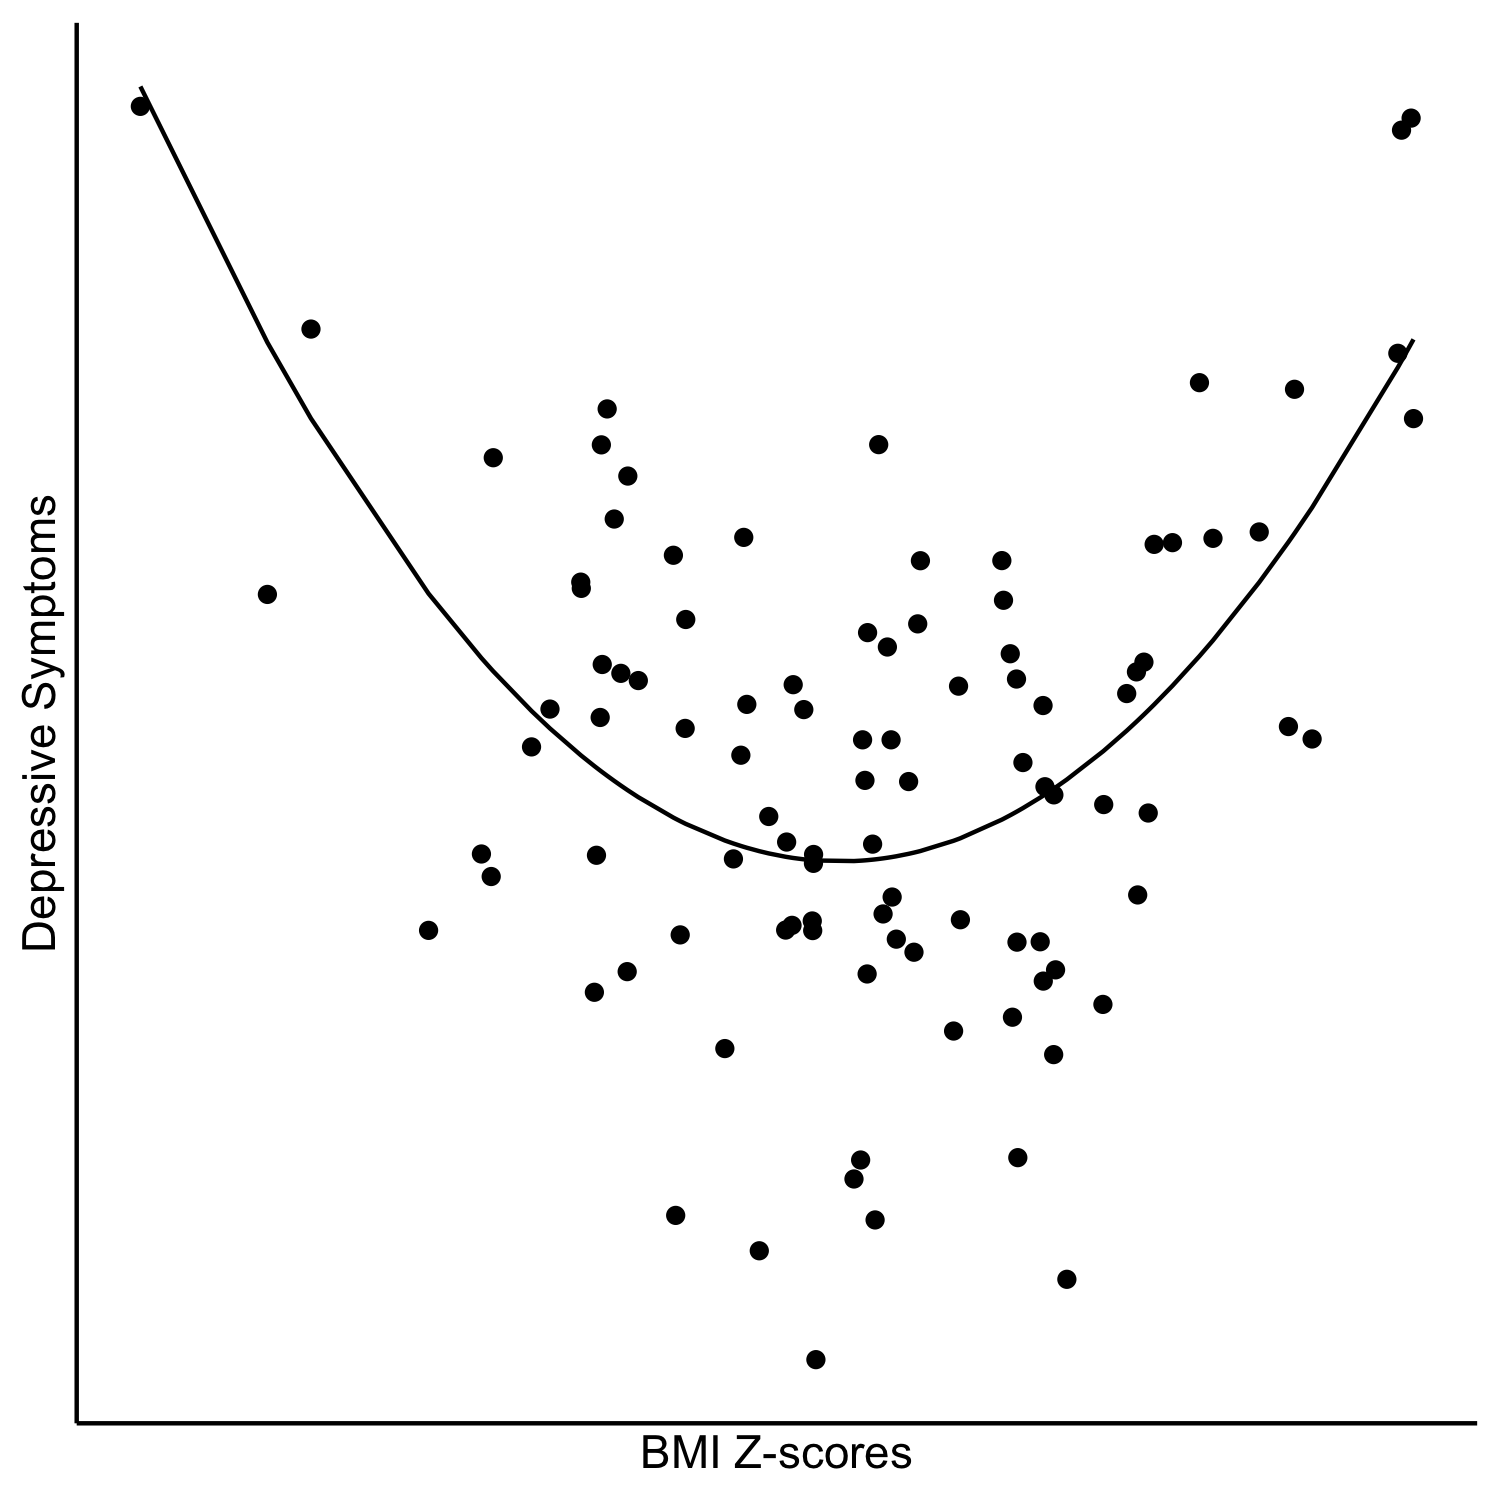
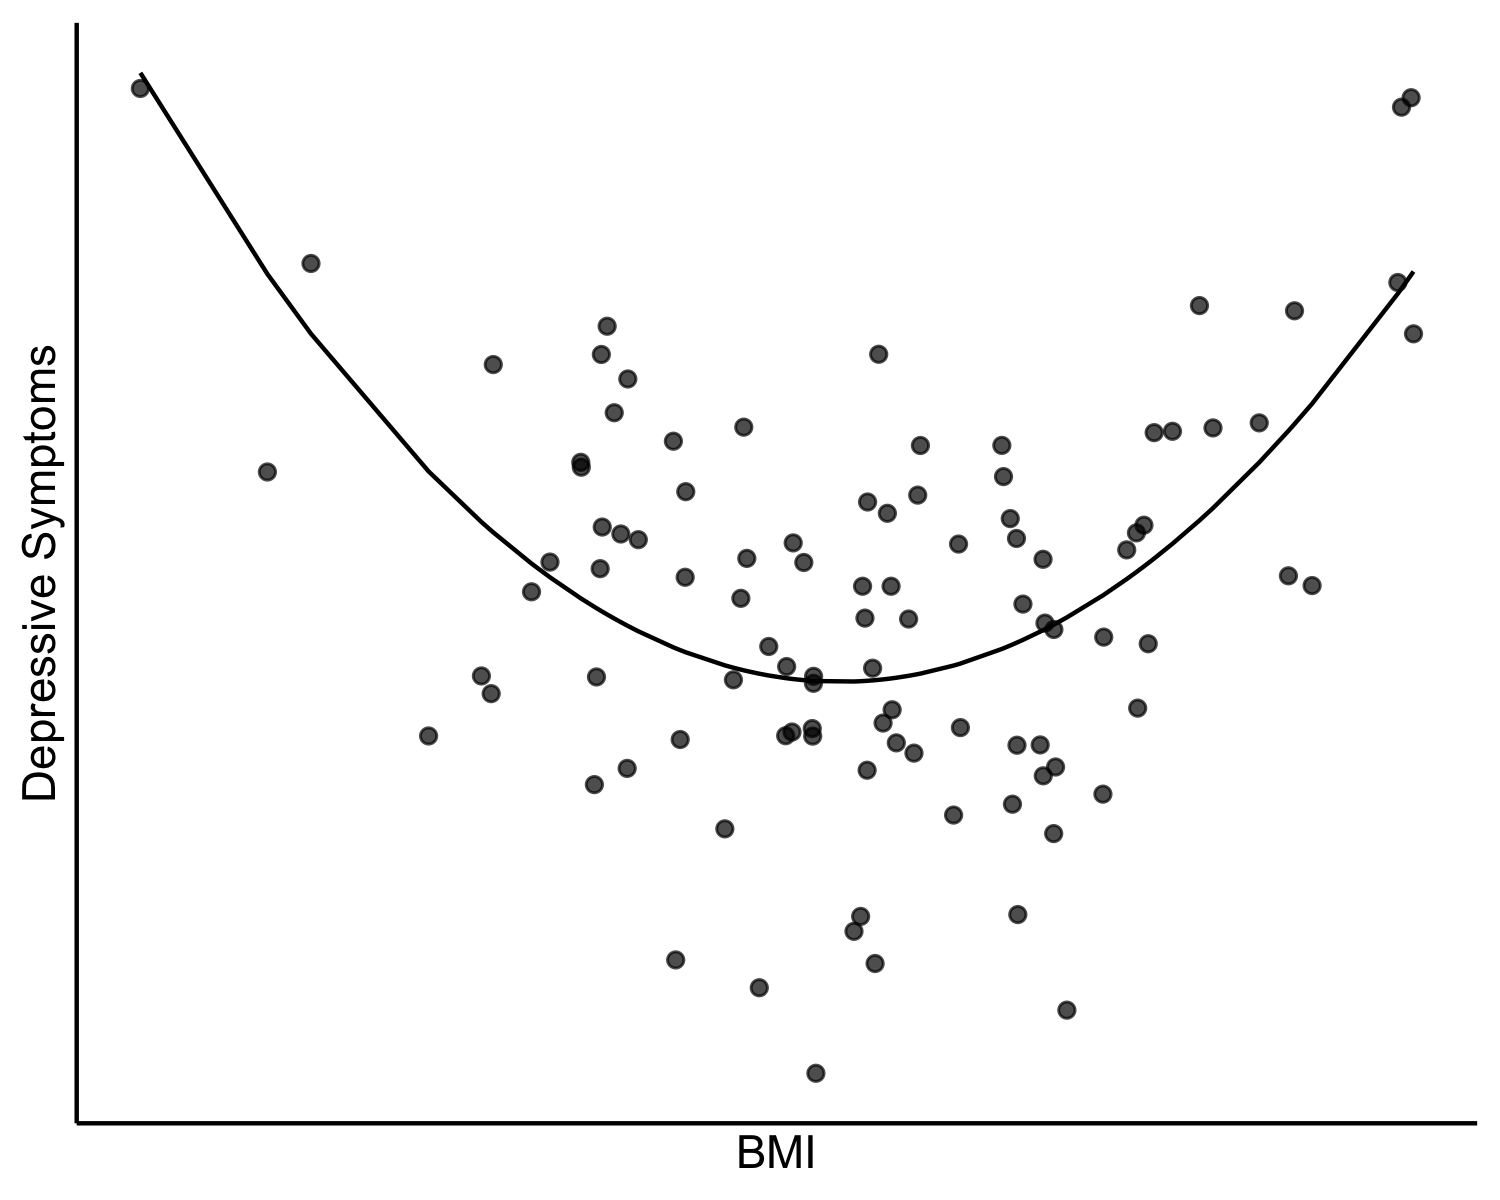
Fleshed out the bias variance example

diff --git a/demystifying_machine_learning/demystifying_machine_learning.md b/demystifying_machine_learning/demystifying_machine_learning.md
@@ -128,7 +128,7 @@ It refers to the fact that although of course you can only work with the data yo
 In other words, when you think about how good a model is, you don't just mean that you want it to fit the data in front of you --- you want it to work on new data as well.
 
 That means that the best model is not necessarily the one that fits your training data the best.
-Instead, the best model is one that captures as much of the systemtic variability in your data as possible without getting so closely tuned to your training data that it starts to model noise.
+Instead, the best model is one that captures as much of the systematic variability in your data as possible without getting so closely tuned to your training data that it starts to model noise.
 
 You can measure how well a model fits in a number of ways, but one very common method is the **Mean Squared Error (MSE)**; it captures how close your predictions are to the observed data.
 When the predictions are very close to the actual observed values, then MSE will be small.
@@ -154,12 +154,58 @@ Briefly, **variance** is how much your model estimates jump around depending on 
 You want to get variance as low as possible; if you reach a variance of 0, that means your model is totally robust to changes in the randomly sampled data it's trained on.
 
 **Bias** refers to how far off your predictions are from the underlying truth.
-You also want bias to be as low as possible; if you have a bias of 0, that means your model
+You also want bias to be as low as possible; if you have a bias of 0, that means your model accurately captures the real-life phenomenon that creates the data.
 
-![bias variance target image]()
 
-![Scatterplot of data with a pronounced U-shaped curve. There is a linear trend line that cuts straight through the data without capturing the curve.](media/underfit.png) ![The same data, this time with a very squiggly trend line that goes up and down with the random variability in the data.](media/overfit.png) ![The same data, this time shown with a quadratic curve that captures the pattern in the data well without chasing noise.](media/goodfit.png)
+For example, imagine you had collected measurements of body mass index (BMI) and depressive symptoms from a sample of adolescents (see [Bohon & Welch, 2021](https://www.ncbi.nlm.nih.gov/pmc/articles/PMC8225589/)).
+Let's pretend that the true relationship between these variables in real life is perfectly quadratic (U-shaped), where medium BMI is associated with low depressive symptoms and BMI that is either low or high is associated with higher depressive symptoms --- it's certainly more complicated than that in reality, but let's assume it's that simple for now.
 
+One way to model the relationship between these variables would be a plain linear relationship, as depicted in the scatterplot below.
+There are only two parameters to estimate for a linear model like this: intercept and slope.
+
+<div class = "learn-more">
+<b style="color: rgb(var(--color-highlight));">Learning connection</b><br>
+
+Looking for a review of what linear regression models are and how they work?
+Check out [this tutorial on linear regression](https://education.arcus.chop.edu/ordinary_linear_regression/).
+
+</div>
+
+If you ran this study over and over, collecting data from new participants each time and always fitting a linear model, the exact parameter estimates for the model would change a little study to study (one time the slope might be .15, another time .21, then .17, etc.). That's the **variance**.
+But there's also the fact that your model will always be systematically off because a linear model isn't a good approximation of the true relationship in the data; you'll always underestimate depressive symptoms at the very low and very high BMIs.
+That's the **bias**.
+
+![Scatterplot of data with a pronounced U-shaped curve. The y-axis is labeled "Depressive Symptoms" and the x-axis is labeled "BMI"; no scales are provided for either axis. There is a linear trend line that cuts straight through the data without capturing the curve, underestimating depressive symptoms at the low and high extremes of BMI.](media/underfit.png)
+
+<div class = "important">
+<b style="color: rgb(var(--color-highlight));">Important note</b><br>
+
+This example is inspired by a real study ([Bohon & Welch, 2021](https://www.ncbi.nlm.nih.gov/pmc/articles/PMC8225589/)), but the plots here are generated from **fake data** and may not accurately depict the relationship the authors found between BMI and depression.
+
+</div>
+
+A better model for these data would be more complex; it would allow a curve in the trend line, which would require estimating more parameters.
+In general, as you increase the complexity of your model, you can lower the **bias**; in other words, you can get closer to the truth.
+
+However, there's a point of diminishing returns.
+If you make your model too complex and flexible, it will start to model random noise in your data, and this increases the **variance**.
+In general, as models get more complex, variance increases.
+
+Here is the BMI and depression data again, this time with a model that is much too complex --- if you estimated that model on a different sample, you could get wildly different results.
+
+![The same scatterplot, this time with a very squiggly trend line that goes up and down with the random variability in the data.](media/overfit.png)
+
+So that's the tradeoff: If your model is not flexible enough, you'll have high bias. But if it's too flexible, you'll have high variance.
+
+A model that is not flexible enough is said to be **underfit**, and a model that's too flexible is **overfit**.
+
+The goal of any machine learning analysis is to find a model that strikes the right balance between bias and variance, that's just the right level of complexity for the problem.
+
+![The same data, this time shown with a quadratic curve that captures the pattern in the data well without chasing noise.](media/goodfit.png)
+
+Unlike this toy example, in a real analysis we never know what the true underlying relationship is, and that makes it very hard to know if you're under- or overfitting.
+There are a number of practical techniques you can use to try to hit the right balance, though, especially [cross-validation](https://en.wikipedia.org/wiki/Cross-validation_(statistics)).
+Most of the machine learning tools you'll encounter are designed with the bias-variance tradeoff in mind.
 
 <details>
 
@@ -191,8 +237,8 @@ df <- data.frame(x=x,
 library(ggplot2)
 
 base_plot <- ggplot(df, aes(x=x, y=y)) +
-  geom_point() +
-  labs(x="BMI Z-scores", y="Depressive Symptoms") +
+  geom_point(alpha = .7) +
+  labs(x="BMI", y="Depressive Symptoms") +
   scale_x_continuous(breaks = NULL) +
   scale_y_continuous(breaks = NULL) +
   theme_classic()
@@ -214,6 +260,9 @@ base_plot +
 </details>
 
 More flexible models will fit the training data better, but at some point they'll start to become too specifically tuned to the training data.
+
+
+![bias variance target image]()
 
 ![](https://r4ds.github.io/bookclub-islr/images/fig2_12.jpg)
 
